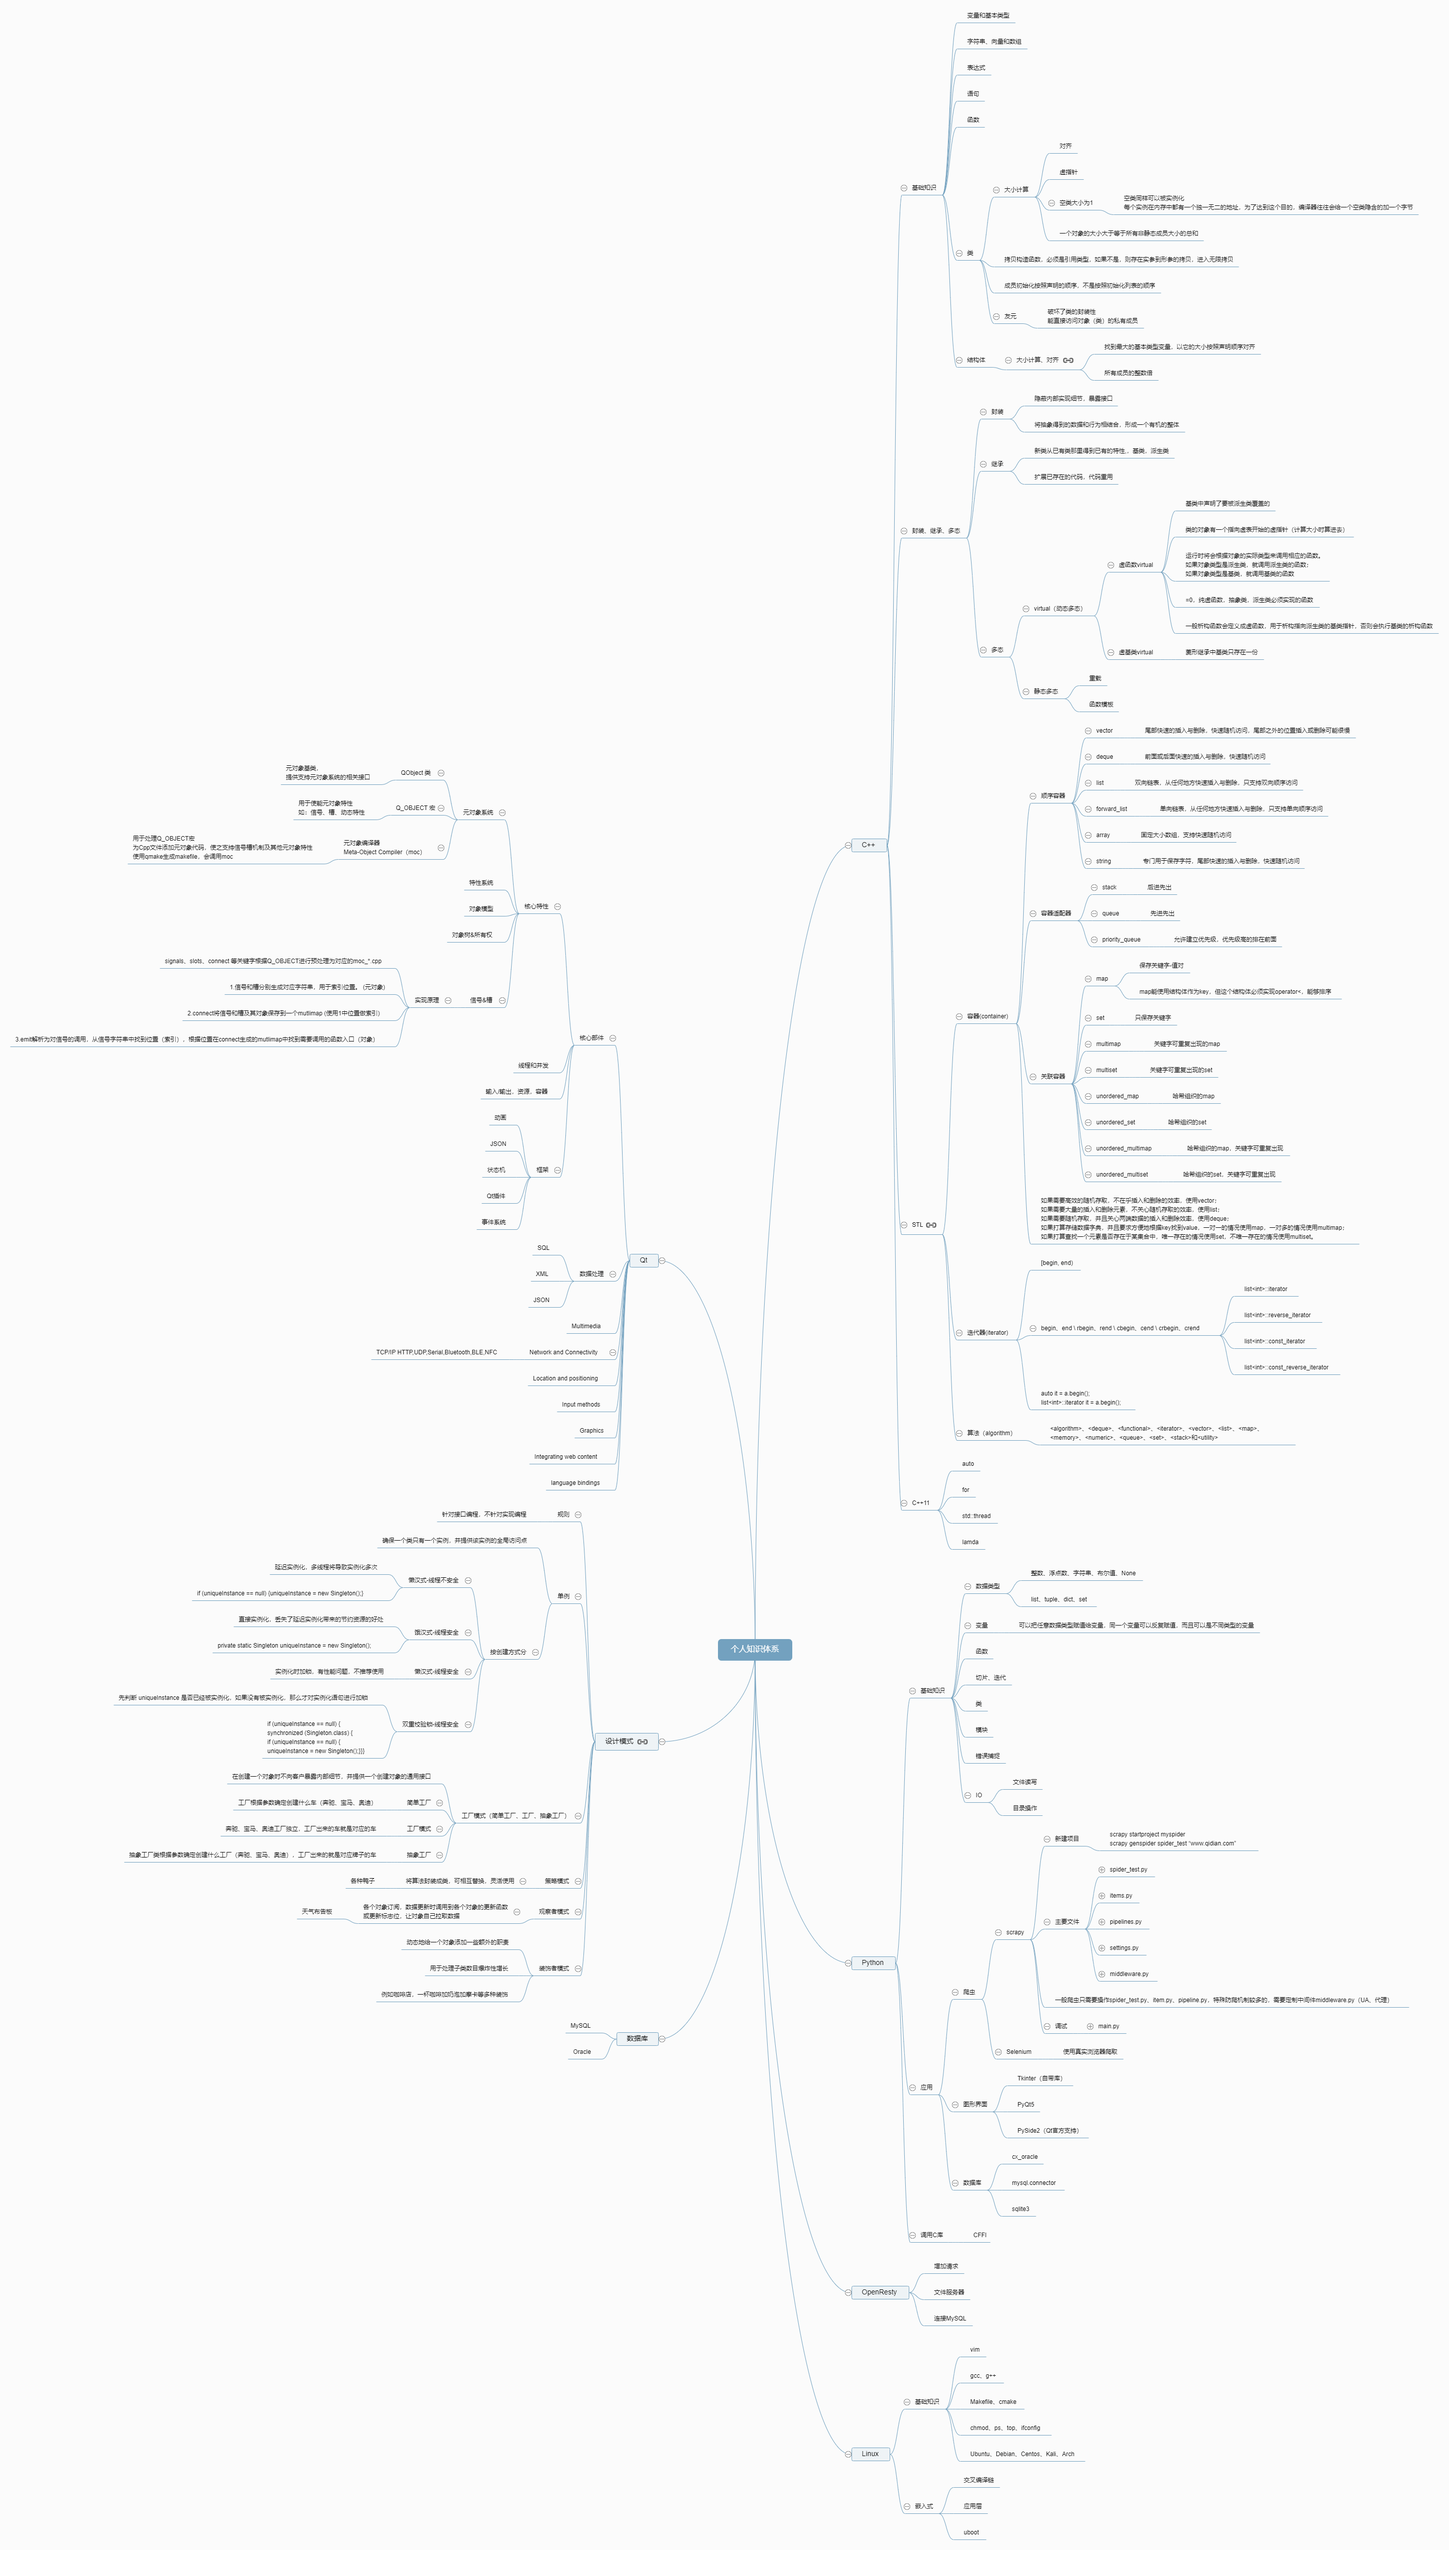
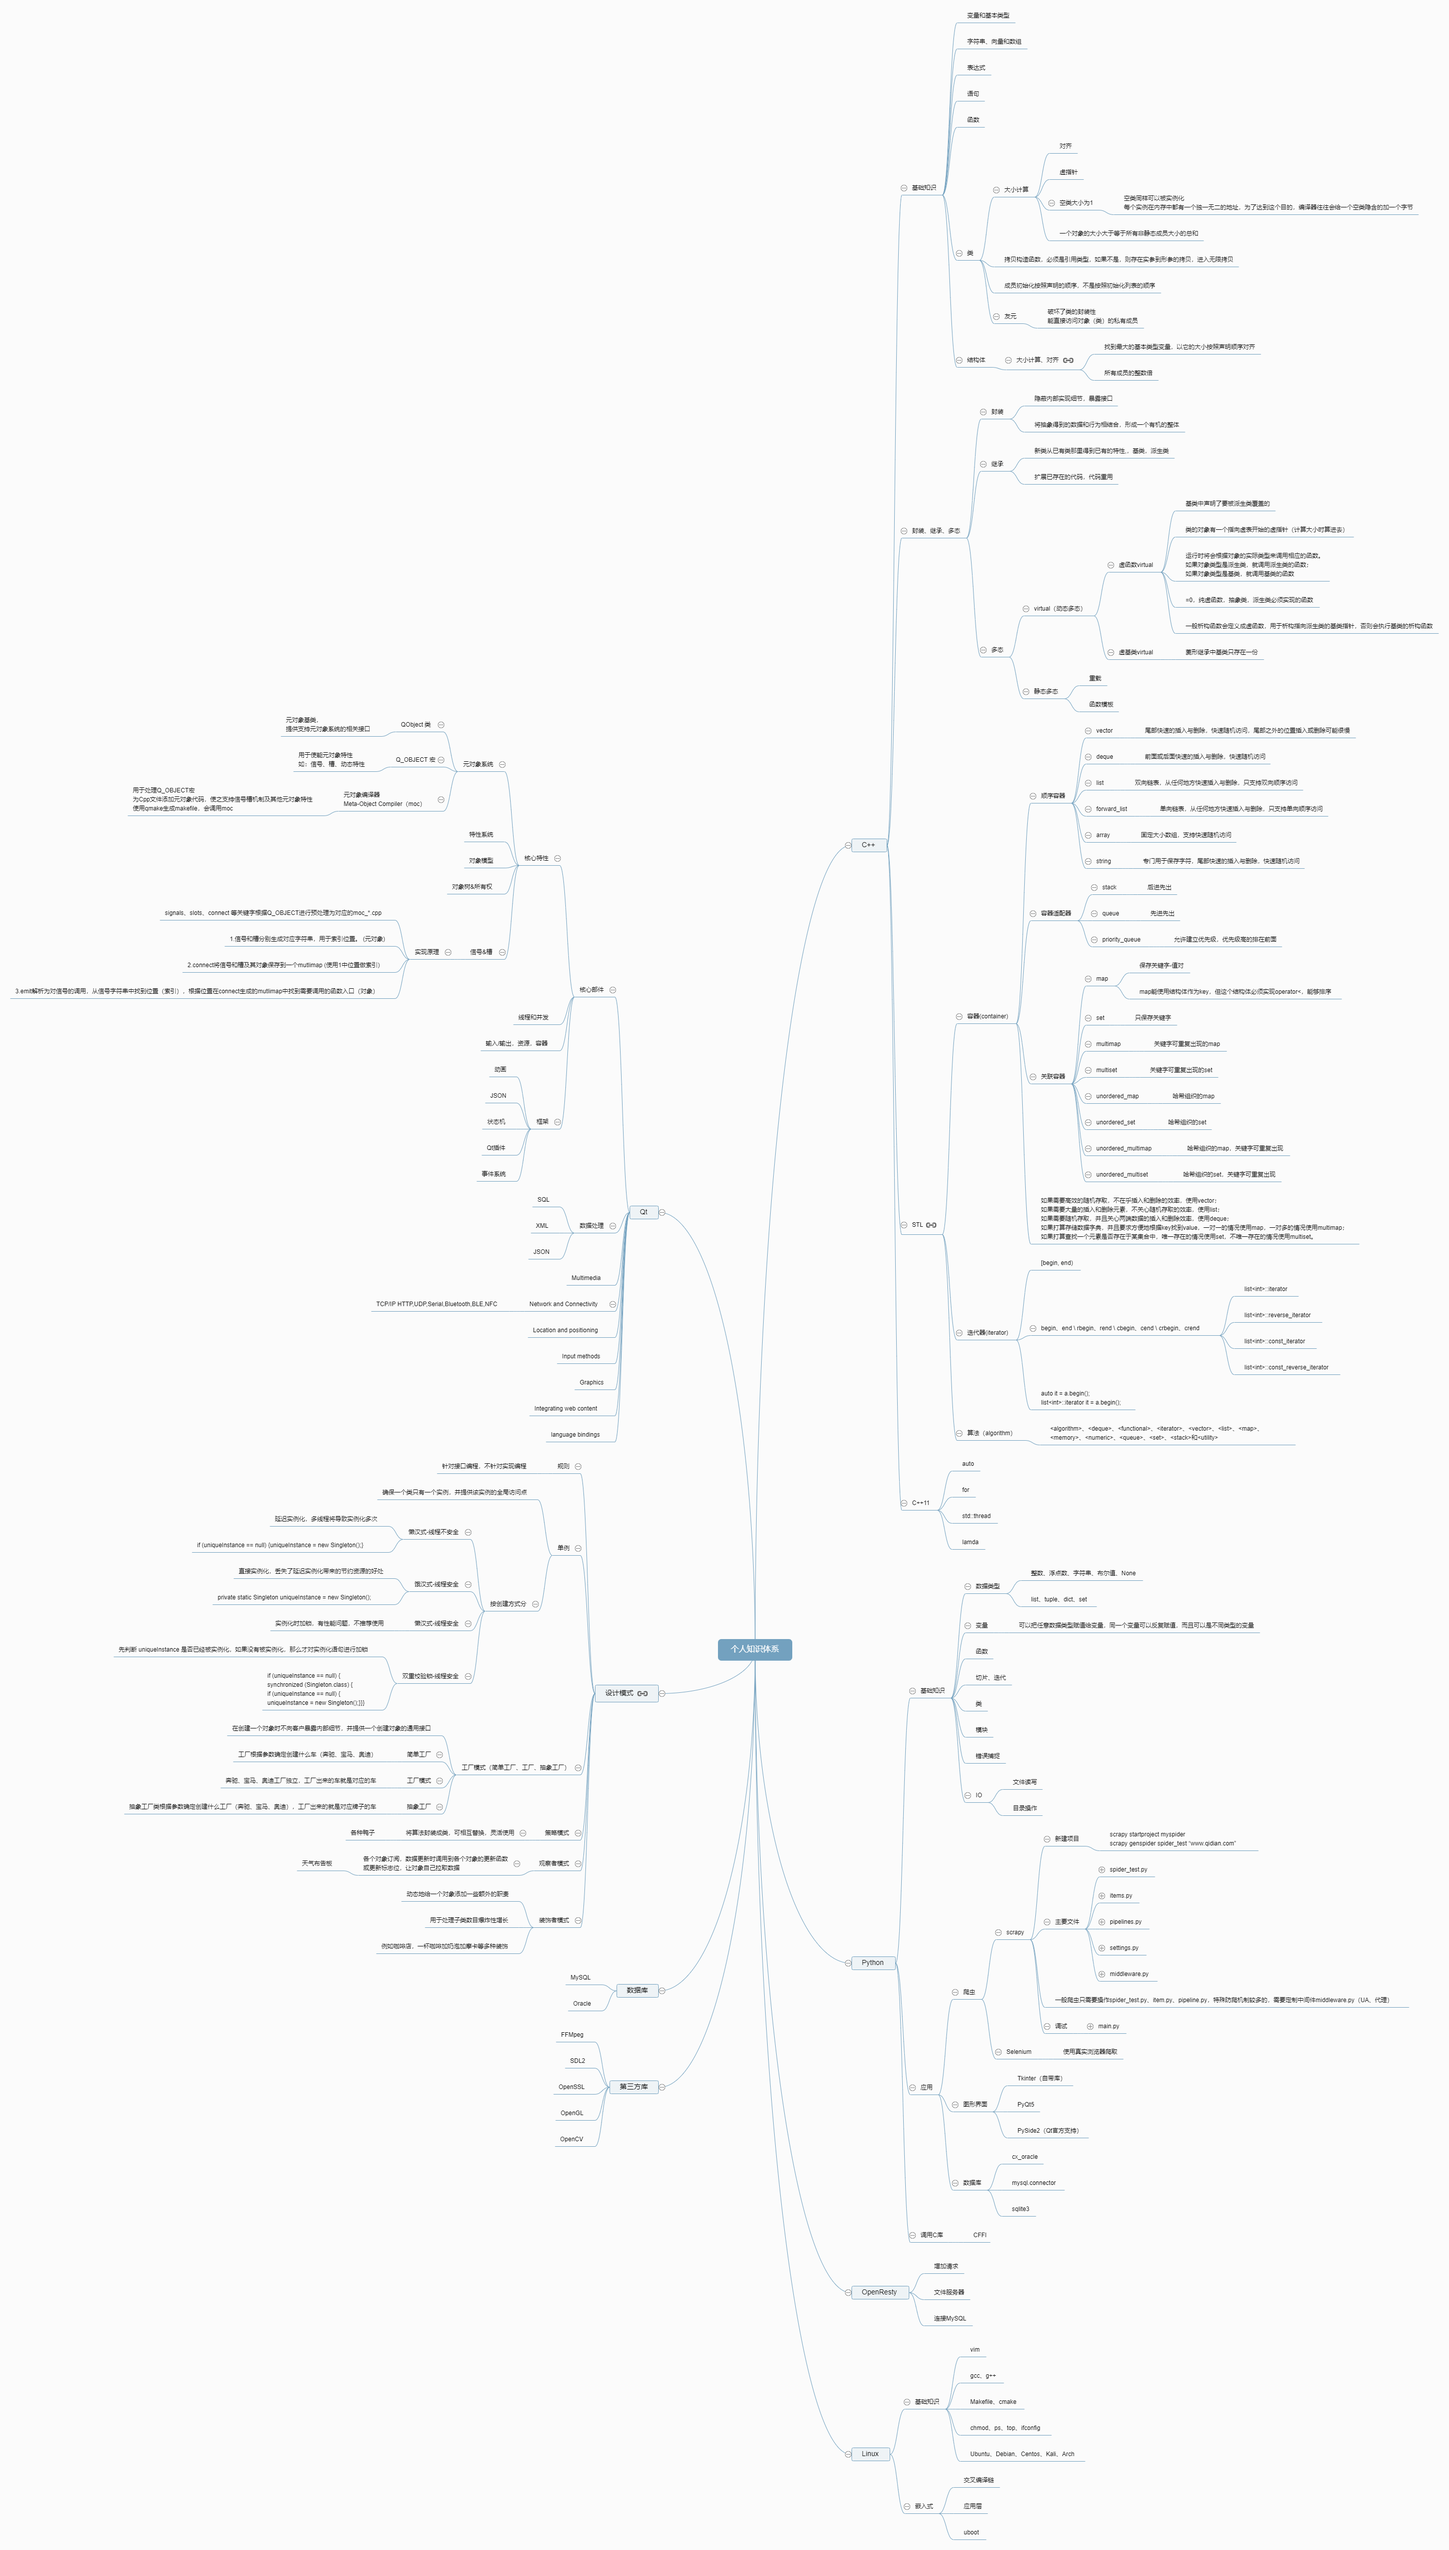
增加第三方库

diff --git a/README.md b/README.md
@@ -1,8 +1,6 @@
 # SkillSystem
 个人技能体系
 
-![图](https://raw.githubusercontent.com/itisyang/SkillSystem/master/个人知识体系_一级节点.png)
-
 ![图](https://raw.githubusercontent.com/itisyang/SkillSystem/master/个人知识体系_二级节点.png)
 
 ![图](https://raw.githubusercontent.com/itisyang/SkillSystem/master/个人知识体系.png)
